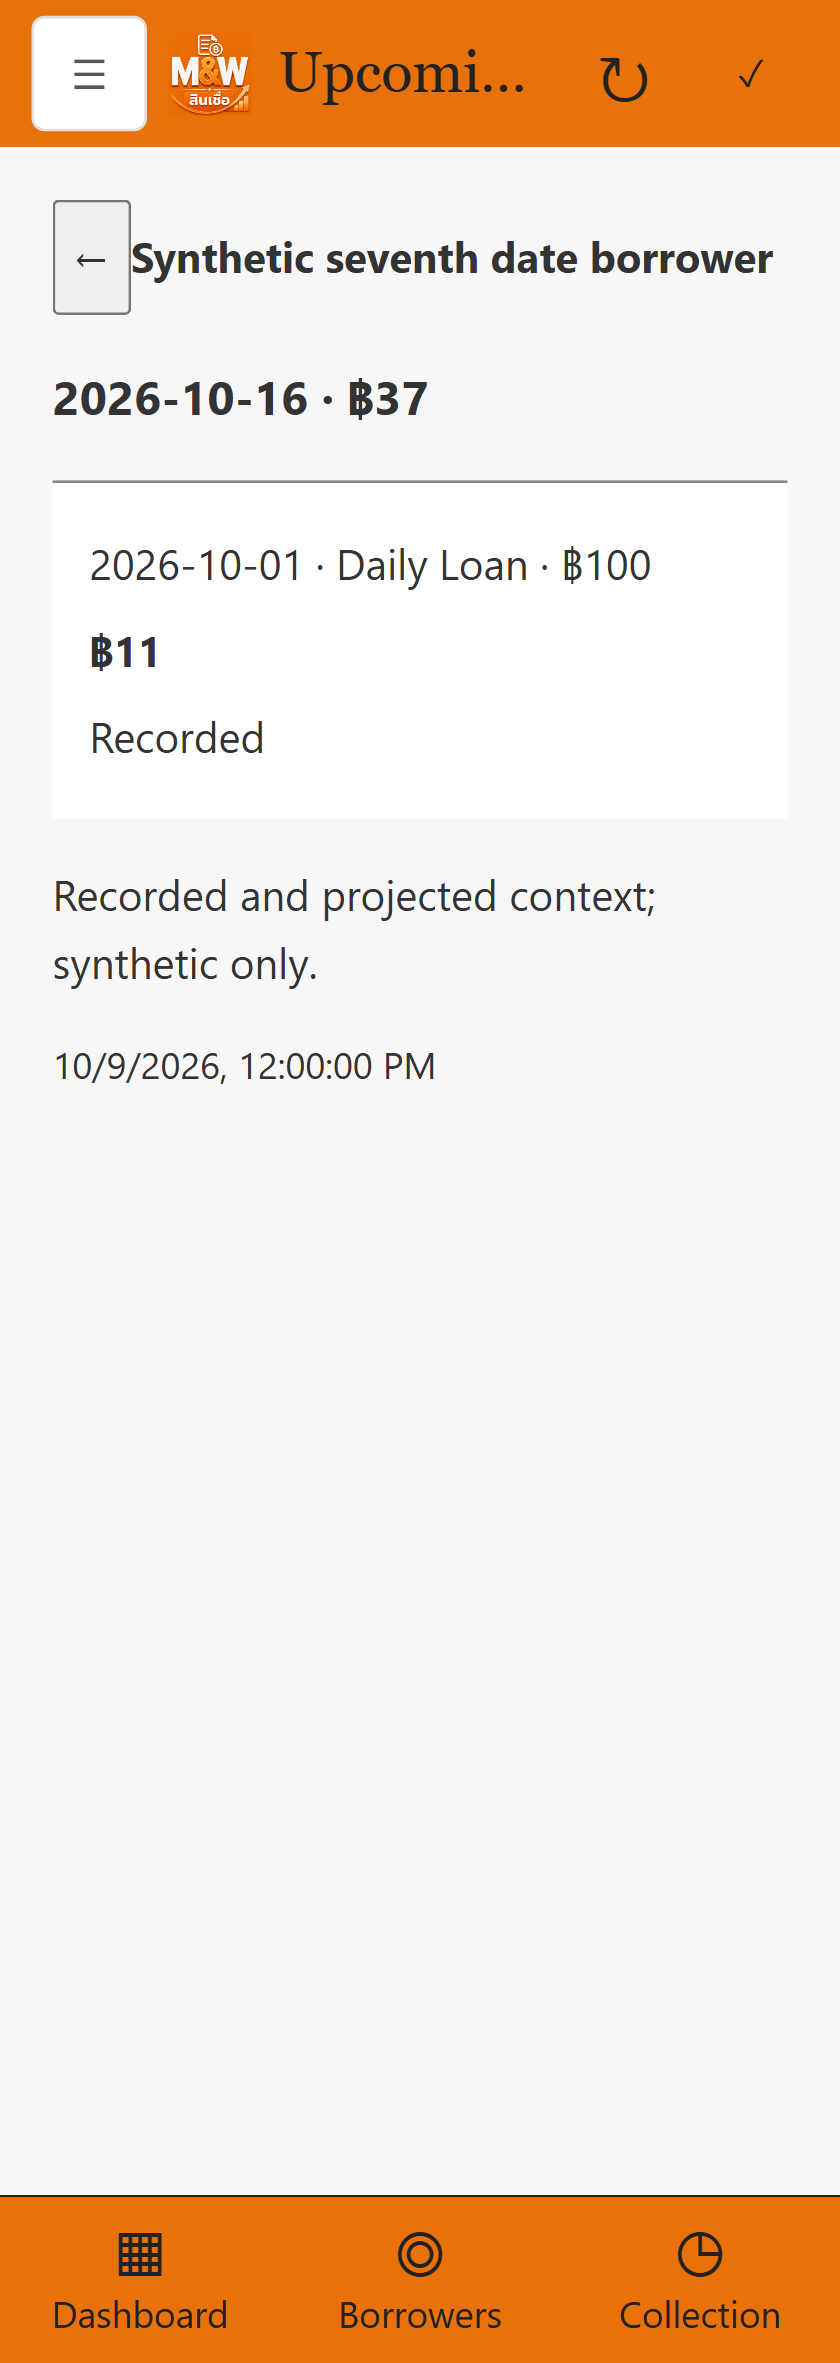
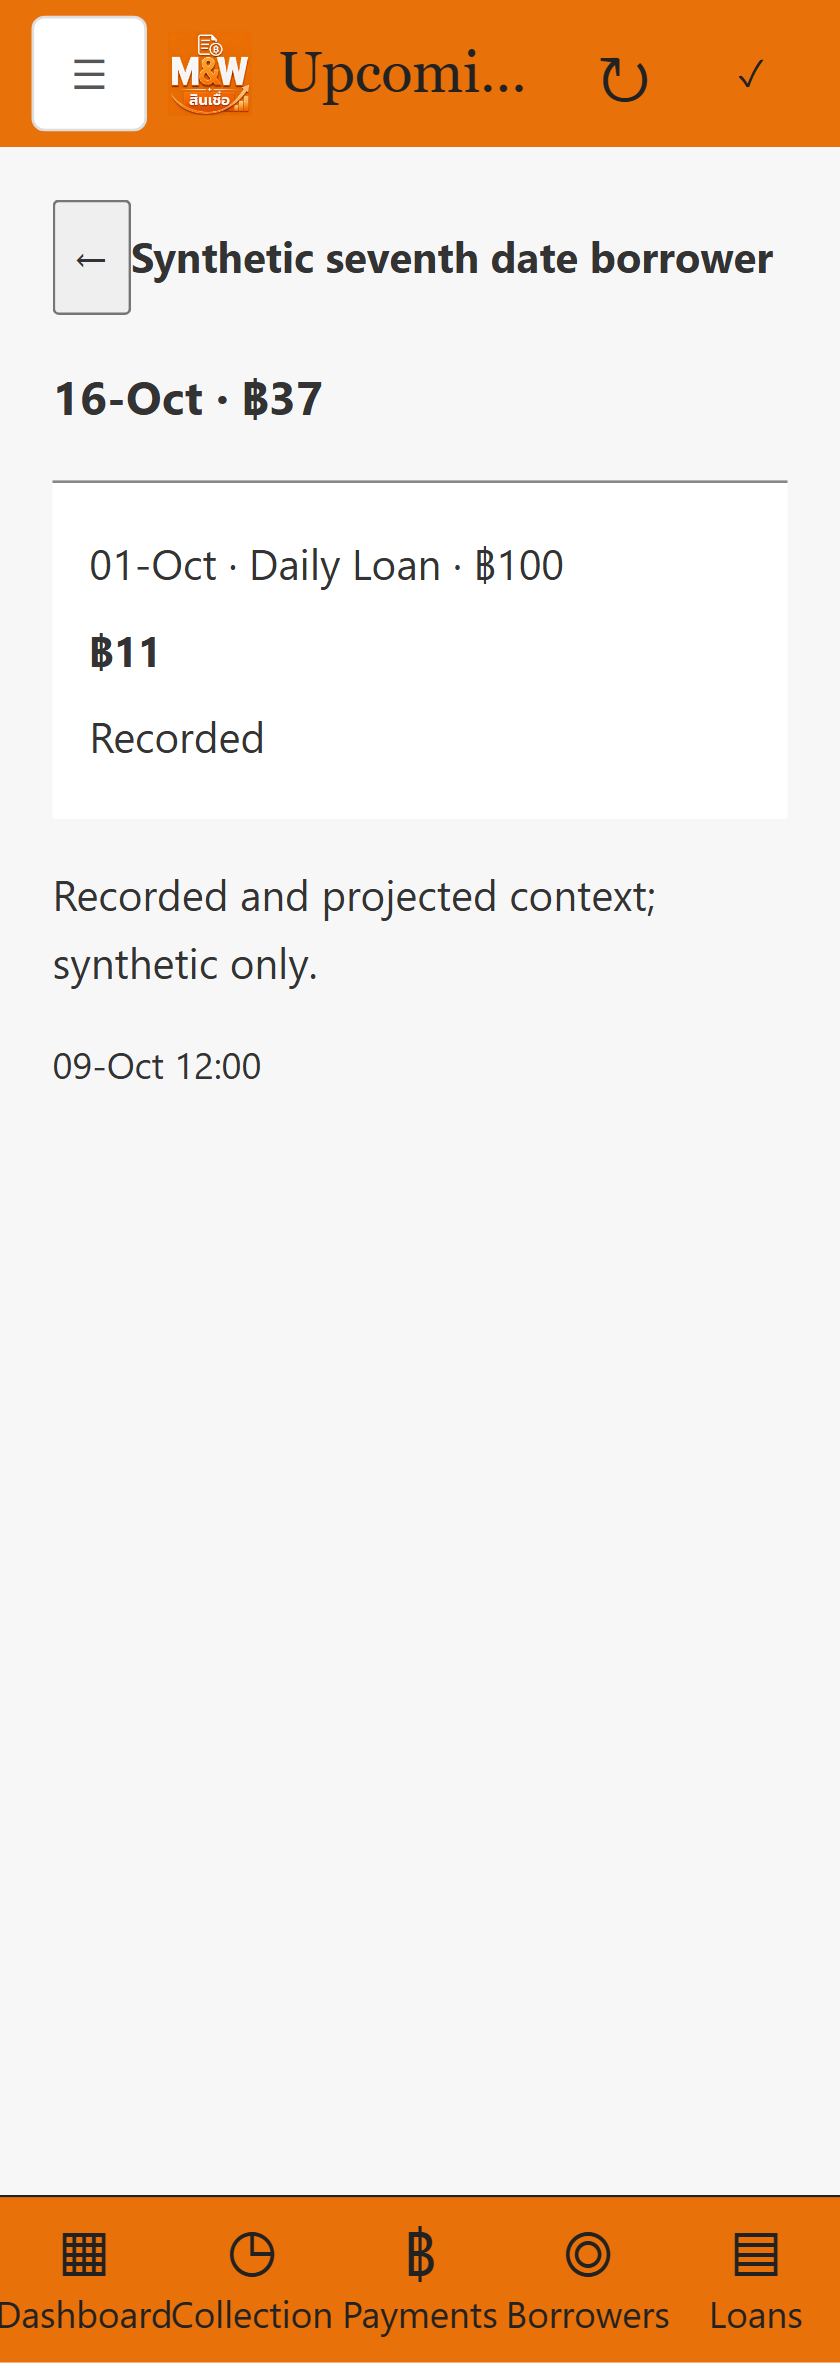
test: align retained receipt and upcoming dates with compact display

diff --git a/tests/e2e/phase5-final-ui-independent.spec.ts b/tests/e2e/phase5-final-ui-independent.spec.ts
@@ -55,7 +55,7 @@ test('F12 static viewed record renders truncation and receipt-offline notice the
  }finally{await context.close()}});
 test('F12 static workspace revision preserves mounted draft but expired owner lease clears it immediately on focus',async()=>{const{context,page,s}=await launch();try{await seed(page,'loan','close:C-loan',closeDraft);await saved(page,'Synthetic loan');await expect(page.getByRole('textbox',{name:'Notes',exact:true})).toHaveValue(closeDraft.notes);await page.evaluate(()=>{(window as any).__heldSnapshotStarted=false;(window as any).__syntheticSnapshotRead=()=>{(window as any).__heldSnapshotStarted=true;return new Promise<void>(resolve=>(window as any).__releaseSnapshot=resolve)};window.dispatchEvent(new Event('mw-offline-saved'))});await expect.poll(()=>page.evaluate(()=>(window as any).__heldSnapshotStarted)).toBe(true);await expect(page.getByRole('textbox',{name:'Notes',exact:true})).toHaveValue(closeDraft.notes);await page.evaluate(()=>{const nativeNow=Date.now;(window as any).__realNow=nativeNow;const future=nativeNow()+86400001;Date.now=()=>future;window.dispatchEvent(new Event('focus'))});await expect(page.getByText('Connect to verify this account before accessing saved records.',{exact:false})).toBeVisible();await expect(page.getByRole('textbox',{name:'Notes',exact:true})).toHaveCount(0);await page.evaluate(()=>{(window as any).__syntheticSnapshotRead=undefined;(window as any).__releaseSnapshot()});await expect(page.locator('.topbar .live-status-text')).not.toContainText('Loading');await expect(page.getByText('Connect to verify this account before accessing saved records.',{exact:false})).toBeVisible();await expect(page.getByRole('textbox',{name:'Notes',exact:true})).toHaveCount(0);expect(s.posts).toHaveLength(0);await page.evaluate(()=>{Date.now=(window as any).__realNow});expect((await repo(page,'draft'))[0].value.draft).toMatchObject({requestId,receipt:receiptId})}finally{await context.close()}});
 test('F12 static explicit borrower replacement preserves edited money receipt and ignores late prior destination',async()=>{const{context,page,s}=await launch();try{await seed(page,'payment','correction:C-payment',correctionDraft);await saved(page,'Synthetic payment');let release:()=>void=()=>{};const destination=(id:string)=>({...previewA,proposedBorrowerId:id,proposedBorrowerLabel:'Synthetic '+id,balances:[{chargeId:id+'-charge',loanId:id+'-loan',chargeDate:'2026-10-09',principalRemaining:'10',interestRemaining:'5'}]});await context.route('https://mw-credit-app-command-dev-test.run.app/api/borrower-options**',r=>r.fulfill({contentType:'application/json',body:JSON.stringify({ok:true,accounts,referrers:[{id:'C-B',label:'Synthetic B'},{id:'C-C',label:'Synthetic C'}]})}));await context.route('https://mw-credit-app-command-dev-test.run.app/api/payment-records/C-payment/correction-preview**',async r=>{const id=new URL(r.request().url()).searchParams.get('proposedBorrowerId');if(id==='C-B')await new Promise<void>(done=>release=done);return r.fulfill({contentType:'application/json',body:JSON.stringify({ok:true,item:destination(id??borrower.id)})})});await page.getByRole('searchbox',{name:'Borrower',exact:true}).fill('synthetic');await page.getByRole('button',{name:'Synthetic B',exact:true}).click();await expect(page.getByRole('button',{name:'Review correction',exact:true})).toBeDisabled();await page.getByRole('searchbox',{name:'Borrower',exact:true}).fill('synthetic C');await page.getByRole('button',{name:'Synthetic C',exact:true}).click();await expect(page.getByRole('button',{name:'Replace allocation selection for this borrower',exact:true})).toBeEnabled();release();await page.getByRole('button',{name:'Replace allocation selection for this borrower',exact:true}).click();await expect(page.getByRole('textbox',{name:'Principal',exact:true})).toHaveValue('0');await expect(page.getByRole('textbox',{name:'Amount Received',exact:true})).toHaveValue('10');await expect(page.getByRole('textbox',{name:'Notes',exact:true})).toHaveValue(fields.notes);await page.getByRole('textbox',{name:'Principal',exact:true}).fill('8');await page.getByRole('textbox',{name:'Interest',exact:true}).fill('2');await expect.poll(async()=>(await repo(page,'draft'))[0].value.draft.fields.borrowerId).toBe('C-C');expect((await repo(page,'draft'))[0].value.draft.receiptId).toBe(receiptId);expect(s.posts).toHaveLength(0);await page.getByRole('button',{name:'Review correction',exact:true}).click();await page.getByRole('button',{name:'Confirm',exact:true}).click();await expect.poll(()=>s.posts.length).toBe(1);expect(s.posts[0].body.inputs.fields.borrowerId).toBe('C-C');expect(s.posts[0].body.inputs.fields.allocations[0].chargeId).toBe('C-C-charge');expect(s.posts[0].body).toMatchObject({requestId,receiptId,expectedVersion:v,predecessorRequestId:requestId})}finally{await context.close()}});
-test('F12 static Collection receipts preserve exact page scope older date manual priority and stable128px geometry',async()=>{const{context,page,s}=await launch();try{const row={id:borrower.id,displayName:'SYNTHETIC Collection borrower',status:'partially_paid',amountDue:'20',amountCollected:'10',amountRemaining:'10'},charge={id:'C-visible-charge',loanId:'C-loan',loanDisplayKey:'Synthetic loan',chargeDate:'2026-10-09',paymentStatus:'ชำระบางส่วน',paymentDate:null,amountRemaining:'10',totalPaid:'10',receivedToday:'10'};await context.route('https://mw-credit-app-read-dev-test.run.app/api/collection**',r=>r.fulfill({contentType:'application/json',body:JSON.stringify({ok:true,source:'dev',businessDate:'2026-10-09',timezone:'Asia/Bangkok',asOf:'2026-10-09T05:00:00Z',horizonEnd:'2027-01-09',reviewRequired:false,items:new URL(r.request().url()).pathname.endsWith('/upcoming')?[]:new URL(r.request().url()).pathname.endsWith('/charges')?[charge]:[row],borrower:row,nextCursor:null})}));let scope:any;await context.route('https://mw-credit-app-command-dev-test.run.app/api/borrowers/**/collection-receipts**',r=>{scope=new URL(r.request().url());return r.fulfill({contentType:'application/json',body:JSON.stringify({ok:true,businessDate:'2026-10-09',items:[{id:'C-payment',paymentDate:'2026-10-08',amount:'10',manualReceiptPresent:true,agentReceiptPresent:true,receiptAt:'2026-10-09T05:00:00Z'}],nextCursor:null})})});await page.getByRole('button',{name:'Collection',exact:true}).filter({visible:true}).click();await page.locator('.collection-borrower').click();const region=page.getByRole('region',{name:'Collection receipts',exact:true});await expect(region).toContainText('2026-10-08');await expect(region).toContainText('Receipt unavailable');expect(JSON.parse(scope.searchParams.get('chargeIds'))).toEqual(['C-visible-charge']);expect(scope.searchParams.get('businessDate')).toBe('2026-10-09');expect(s.receiptReads).toEqual(['preferred']);await expect(region.getByRole('button',{name:/Previous receipts page|Next receipts page/})).toHaveCount(0);const tile=region.locator('.borrower-card');expect(await tile.locator('span').first().evaluate(e=>e.getBoundingClientRect().height)).toBe(128);for(const lang of ['EN','ไทย'] as const){await chooseLanguage(page,lang);expect(await page.evaluate(()=>document.documentElement.scrollWidth)).toBeLessThanOrEqual(320)}expect(s.posts).toHaveLength(0)}finally{await context.close()}});
+test('F12 static Collection receipts preserve exact page scope older date manual priority and stable128px geometry',async()=>{const{context,page,s}=await launch();try{const row={id:borrower.id,displayName:'SYNTHETIC Collection borrower',status:'partially_paid',amountDue:'20',amountCollected:'10',amountRemaining:'10'},charge={id:'C-visible-charge',loanId:'C-loan',loanDisplayKey:'Synthetic loan',chargeDate:'2026-10-09',paymentStatus:'ชำระบางส่วน',paymentDate:null,amountRemaining:'10',totalPaid:'10',receivedToday:'10'};await context.route('https://mw-credit-app-read-dev-test.run.app/api/collection**',r=>r.fulfill({contentType:'application/json',body:JSON.stringify({ok:true,source:'dev',businessDate:'2026-10-09',timezone:'Asia/Bangkok',asOf:'2026-10-09T05:00:00Z',horizonEnd:'2027-01-09',reviewRequired:false,items:new URL(r.request().url()).pathname.endsWith('/upcoming')?[]:new URL(r.request().url()).pathname.endsWith('/charges')?[charge]:[row],borrower:row,nextCursor:null})}));let scope:any;await context.route('https://mw-credit-app-command-dev-test.run.app/api/borrowers/**/collection-receipts**',r=>{scope=new URL(r.request().url());return r.fulfill({contentType:'application/json',body:JSON.stringify({ok:true,businessDate:'2026-10-09',items:[{id:'C-payment',paymentDate:'2026-10-08',amount:'10',manualReceiptPresent:true,agentReceiptPresent:true,receiptAt:'2026-10-09T05:00:00Z'}],nextCursor:null})})});await page.getByRole('button',{name:'Collection',exact:true}).filter({visible:true}).click();await page.locator('.collection-borrower').click();const region=page.getByRole('region',{name:'Collection receipts',exact:true});await expect(region).toContainText('08-Oct');await expect(region.locator('small')).toHaveText('09-Oct 12:00');await expect(region).toContainText('Receipt unavailable');expect(JSON.parse(scope.searchParams.get('chargeIds'))).toEqual(['C-visible-charge']);expect(scope.searchParams.get('businessDate')).toBe('2026-10-09');expect(s.receiptReads).toEqual(['preferred']);await expect(region.getByRole('button',{name:/Previous receipts page|Next receipts page/})).toHaveCount(0);const tile=region.locator('.borrower-card');expect(await tile.locator('span').first().evaluate(e=>e.getBoundingClientRect().height)).toBe(128);for(const lang of ['EN','ไทย'] as const){await chooseLanguage(page,lang);expect(await page.evaluate(()=>document.documentElement.scrollWidth)).toBeLessThanOrEqual(320)}expect(s.posts).toHaveLength(0)}finally{await context.close()}});
 
 
 for(const status of [401,403])test('F12 static current record '+status+' never falls back to viewed snapshot',async()=>{const{context,page,s}=await launch();try{await seed(page,'preference','own',{preferences:preferenceA,account:'C-account',date:'2026-10-09',language:'English'});await saved(page,'Synthetic preference');await page.getByRole('combobox',{name:'Account',exact:true}).selectOption('');await page.getByRole('combobox',{name:'Account',exact:true}).selectOption('C-account');s.record={id:'C-payment',version:v,borrowerName:'SYNTHETIC cached view must disappear',amountReceived:'10',status:'Posted',allocations:[],repayments:[],cashMovements:[],receiptReference:null,agentReceiptPresent:false};await page.getByRole('button',{name:'Payment details',exact:true}).click();await expect(page.getByRole('region',{name:'Full payment details',exact:true})).toBeVisible();await expect.poll(async()=>(await repo(page,'snapshot')).length).toBe(1);await context.route('https://mw-credit-app-command-dev-test.run.app/api/payment-records/C-payment',r=>r.fulfill({status,contentType:'application/json',body:'{}'}));await page.locator('.topbar').getByRole('button',{name:'Refresh payment details',exact:true}).click();await expect(page.getByRole('region',{name:'Full payment details',exact:true})).toHaveCount(0);await expect(page.locator('main')).not.toContainText('SYNTHETIC cached view must disappear');await expect.poll(async()=>(await repo(page,'snapshot')).length).toBe(0);expect(s.posts).toHaveLength(0)}finally{await context.close()}});

diff --git a/tests/e2e/phase5-borrower-independent.spec.ts b/tests/e2e/phase5-borrower-independent.spec.ts
@@ -125,6 +125,6 @@ test('F11 UI Dashboard exact groups zero-status suppression header busy and stri
  for(const lang of ['EN','ไทย'] as const){await chooseLanguage(page,lang);expect(await page.locator('body').evaluate(e=>e.scrollWidth)).toBeLessThanOrEqual(320);expect(await page.evaluate(()=>document.documentElement.scrollWidth)).toBeLessThanOrEqual(320);await expect(page.locator('main')).not.toContainText(/Loading|Checking/);await page.screenshot({path:'outputs/r052-phase5-completion/dashboard-'+info.project.name+'-'+(lang==='EN'?'en':'th')+'.png'})}expect(s.writes).toHaveLength(0);
 });
 test('F11 UI standalone Upcoming date groups exact detail scope global refresh errors and strict320',async({page},info)=>{
- await page.setViewportSize({width:320,height:900});const s=await setup(page);let detailUrl='',fail=false;const context={businessDate:'2026-10-09',asOf:'2026-10-09T05:00:00Z',forecastNote:'Recorded and projected context; synthetic only.'};await page.route('https://mw-credit-app-command-dev-test.run.app/api/upcoming-charges**',async r=>{const url=new URL(r.request().url());if(fail)return r.fulfill({status:409,contentType:'application/json',body:'{"ok":false}'});const detail=url.pathname!='/api/upcoming-charges';if(detail)detailUrl=url.toString();await r.fulfill({contentType:'application/json',body:JSON.stringify(detail?{...context,dueDate:'2026-10-16',totalCharge:'37',items:[{id:'C-event',loanDate:'2026-10-01',loanType:'Daily Loan',loanPrincipal:'100',amount:'11',basis:'Recorded'}],nextCursor:null}:{...context,dateTotals:[{date:'2026-10-10',amount:'26'},{date:'2026-10-16',amount:'37'}],items:[{id:'C-one',borrowerId:'C-future',label:'Synthetic future-only borrower',dueDate:'2026-10-10',totalCharge:'26'},{id:'C-seven',borrowerId:'C-future',label:'Synthetic seventh date borrower',dueDate:'2026-10-16',totalCharge:'37'}],nextCursor:null})})});await navigateReadC(page,'Upcoming Charges');const region=page.getByRole('region',{name:'Upcoming Charges',exact:true});await expect(region.getByRole('heading',{name:'2026-10-16 · ฿37',exact:true})).toBeVisible();await expect(region.getByRole('button',{name:/Previous upcoming page|Next upcoming page|Refresh/})).toHaveCount(0);await region.getByRole('button',{name:'Synthetic seventh date borrower ฿37',exact:true}).click();await expect(region.getByText('Recorded',{exact:true})).toBeVisible();expect(new URL(detailUrl).pathname).toBe('/api/upcoming-charges/C-future/2026-10-16');expect(new URL(detailUrl).searchParams.get('businessDate')).toBe('2026-10-09');await expect(region.getByRole('heading',{name:'2026-10-16 · ฿37',exact:true})).toBeVisible();
+ await page.setViewportSize({width:320,height:900});const s=await setup(page);let detailUrl='',fail=false;const context={businessDate:'2026-10-09',asOf:'2026-10-09T05:00:00Z',forecastNote:'Recorded and projected context; synthetic only.'};await page.route('https://mw-credit-app-command-dev-test.run.app/api/upcoming-charges**',async r=>{const url=new URL(r.request().url());if(fail)return r.fulfill({status:409,contentType:'application/json',body:'{"ok":false}'});const detail=url.pathname!='/api/upcoming-charges';if(detail)detailUrl=url.toString();await r.fulfill({contentType:'application/json',body:JSON.stringify(detail?{...context,dueDate:'2026-10-16',totalCharge:'37',items:[{id:'C-event',loanDate:'2026-10-01',loanType:'Daily Loan',loanPrincipal:'100',amount:'11',basis:'Recorded'}],nextCursor:null}:{...context,dateTotals:[{date:'2026-10-10',amount:'26'},{date:'2026-10-16',amount:'37'}],items:[{id:'C-one',borrowerId:'C-future',label:'Synthetic future-only borrower',dueDate:'2026-10-10',totalCharge:'26'},{id:'C-seven',borrowerId:'C-future',label:'Synthetic seventh date borrower',dueDate:'2026-10-16',totalCharge:'37'}],nextCursor:null})})});await navigateReadC(page,'Upcoming Charges');const region=page.getByRole('region',{name:'Upcoming Charges',exact:true});await expect(region.getByRole('heading',{name:'16-Oct · ฿37',exact:true})).toBeVisible();await expect(region.getByRole('button',{name:/Previous upcoming page|Next upcoming page|Refresh/})).toHaveCount(0);await region.getByRole('button',{name:'Synthetic seventh date borrower ฿37',exact:true}).click();await expect(region.getByText('Recorded',{exact:true})).toBeVisible();expect(new URL(detailUrl).pathname).toBe('/api/upcoming-charges/C-future/2026-10-16');expect(new URL(detailUrl).searchParams.get('businessDate')).toBe('2026-10-09');await expect(region.getByRole('heading',{name:'16-Oct · ฿37',exact:true})).toBeVisible();
  for(const lang of ['EN','ไทย'] as const){await chooseLanguage(page,lang);expect(await page.locator('body').evaluate(e=>e.scrollWidth)).toBeLessThanOrEqual(320);await expect(page.locator('main')).not.toContainText(/Loading|Checking/);await page.screenshot({path:'outputs/r052-phase5-completion/upcoming-'+info.project.name+'-'+(lang==='EN'?'en':'th')+'.png'})}await chooseLanguage(page,'EN');fail=true;await page.locator('.topbar').getByRole('button',{name:'Refresh Upcoming Charges',exact:true}).click();await expect(region.getByRole('button',{name:'Retry Upcoming Charges',exact:true})).toBeVisible();fail=false;await region.getByRole('button',{name:'Retry Upcoming Charges',exact:true}).click();await expect(region.getByRole('alert')).toHaveCount(0);await expect(region.getByText('Recorded',{exact:true})).toBeVisible();expect(s.writes).toHaveLength(0);
 });

diff --git a/outputs/r052-phase5-completion/journal-foundation-independent-verification.md b/outputs/r052-phase5-completion/journal-foundation-independent-verification.md
@@ -248,3 +248,8 @@ All source/test hashes are in current-slice-source-hashes.json lazyPaymentsUiBat
 ### Lazy provider seam correction after remote unit gate
 
 Development37875311750 stopped at unit150pass/1fail: the maintained C nullable/unposted provider seam still supplied the old flat payment row/cursor shape to the now borrower-group root. This is an obsolete test contract, not a product change. C narrowly adapted the same test to root borrower ordering/cursor/null borrower, unassigned nullable month full-group sum/count, then explicit unassigned+undated receipt leaf for Processing/Error statuses and null PaymentDate/CreatedAt. Assertions retain closed v2 scope/canonical null cursor branches and exact positional SQL parameters; month total14 remains independent of leaf7 amounts; all queries forbid a Posted filter; cross-level/query/borrower/month cursors reject without another SQL call. Null monthly cursor is explicitly encoded controlled query-seam input, not claimed as a current-head source fixture. Targeted unit1/1PASS4.6ms (116.9ms total), SHA65BAD8DC363B1E3A7735AA0428CA85885FE0E88FB8BAF92E4FCF4031F8AACF65. No product, SQL, auth, UI or financial change; prior actual SQL1 and UI6 plus final inline mobile1 proofs remain valid. D owns corrected relevant remote Development gate.
+
+
+### Formatted-date assertion correction after remote E2E gate
+
+Corrected Development37875650490 had227pass/4fail: two maintained C cases across desktop/mobile still expected ISO dates in owning display headings/cards. C changed only Upcoming date heading to16-Oct·฿37 (both summary/detail assertions) and Collection older receipt display to08-Oct. Raw provider dates and exact upcoming detail path2026-10-16/businessDate2026-10-09/Collection businessDate2026-10-09 scope checks remain ISO unchanged; total37, native receipt priority,128px thumbnail, no fallback, retries/header-only loading, EN/Thai320 bounds and zeroPOST assertions retained. Added exact receipt timestamp small-node09-Oct12:00: browser passed on both projects. The remote joinedtext had amount฿10 immediately before09-Oct, not a missing two-digit day. No product or timeout change. Targeted Upcoming2/2PASS14.9s and static Collection receipts2/2PASS12.7s; no broad rerun. Frozen hashes recorded in displayAssertionCorrection; updated owning Upcoming synthetic images reflect display-only date change. Prior readSQL/paging/UI/financial proofs remain valid, no active test process. D owns corrected remote Development gate and deployment.

diff --git a/Change Logs/CHANGE_NOTES_R052_PHASE5_COMPLETION_2026-10-08.md b/Change Logs/CHANGE_NOTES_R052_PHASE5_COMPLETION_2026-10-08.md
@@ -56,3 +56,5 @@ Page UI closure: C actual owner-session seven-item read-only verification passed
 Starting appa30104f/PM2ce70a; same R052 Open. Payments pages by borrower groups with independent lazy month/receipt reads and complete group totals; compact Payments/Loans headers and date/colored-amount leaf rows, global DD-Mmm display, subtle horizontal transition with reduced-motion respect, three Dashboard cards. No SQL/auth/financial/infra change. B read smoke/typecheck/build passed. C actual read-role case passed2235.8ms (one substantive case, two filtered wrappers excluded), UI6/6 passed43.4s; final CSS-only mobile inline visual passed and prior behavior reused. Exact hashes/run limits in canonical manifest. Configured frontend plus immutable changed readAPI image and relevant remote Development gate precede backend delivery; no manual DB/fullfinancial rerun. Current rollback Hosting999c383203659e26 and API00005-htm privately retained; no financial/draft writes.
 
 Development37875311750 failed150/151 unit checks on the old flat payment cursor expectation before build/E2E. C adapted only its nullable/unposted provider seam to lazy borrower root, nullable month/full-total summary and explicit unassigned/undated receipt leaf, preserving Processing/Error/null dates/encoded cursor/full binding/no Posted filter. Targeted1/1 passed4.6ms; unit hash65BAD8DC363B1E3A7735AA0428CA85885FE0E88FB8BAF92E4FCF4031F8AACF65. Product/build inputs remain byte-identical280ac66: reuse image512e9965/build53cbdcc3 and configured D3vlydDA, no rebuild. Corrected remote Development required before apply; no live change or manual DB rerun.
+
+Corrected Development37875650490 passed227 E2E cases and failed four executions of two old ISO display assertions. C updated only visible Upcoming/Collection receipt dates to DD-Mmm (including exact browser timestamp), preserving ISO source/path/businessDate scope, safety assertions and timeouts. Affected Upcoming2/2 and Collection receipts2/2 passed; product/build inputs and prepared image/frontend remain unchanged. Required corrected Development precedes paired API/Hosting deployment; no live change or manual DB rerun.
